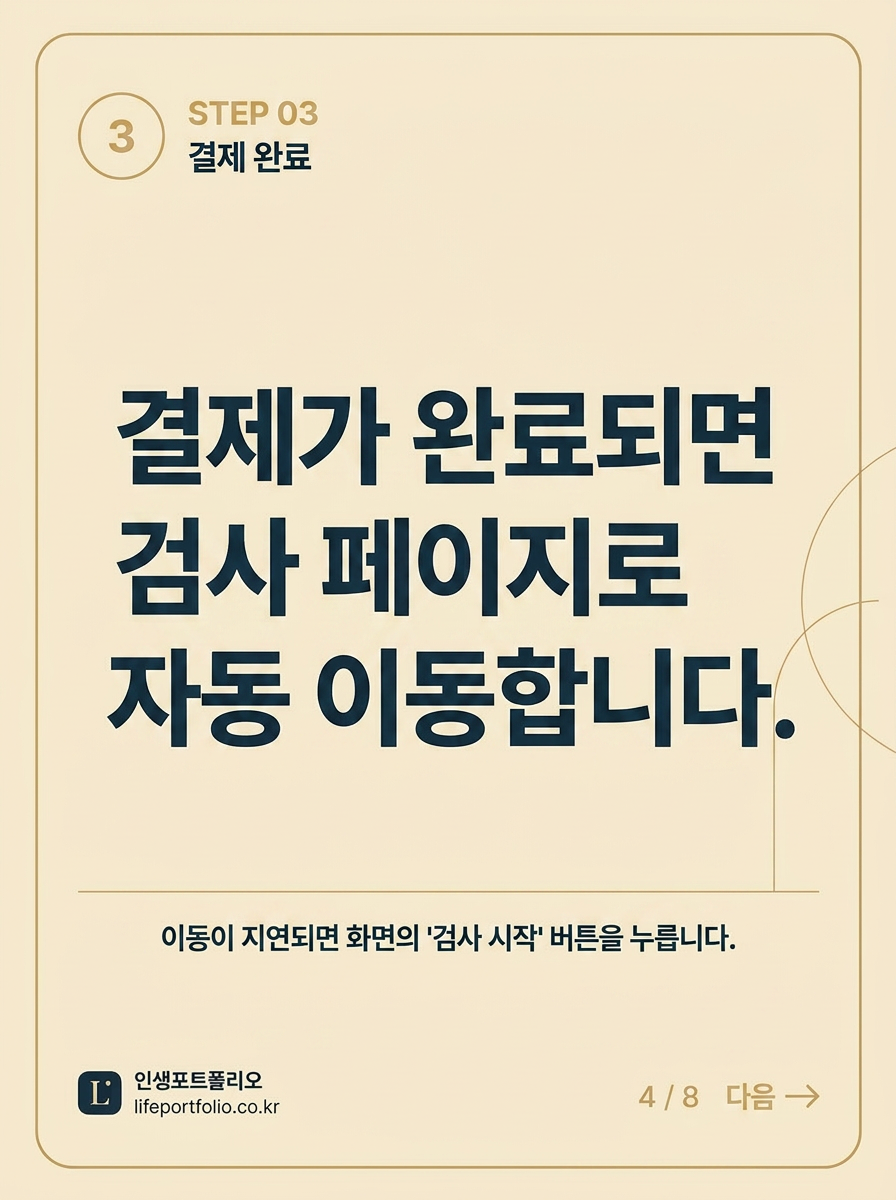
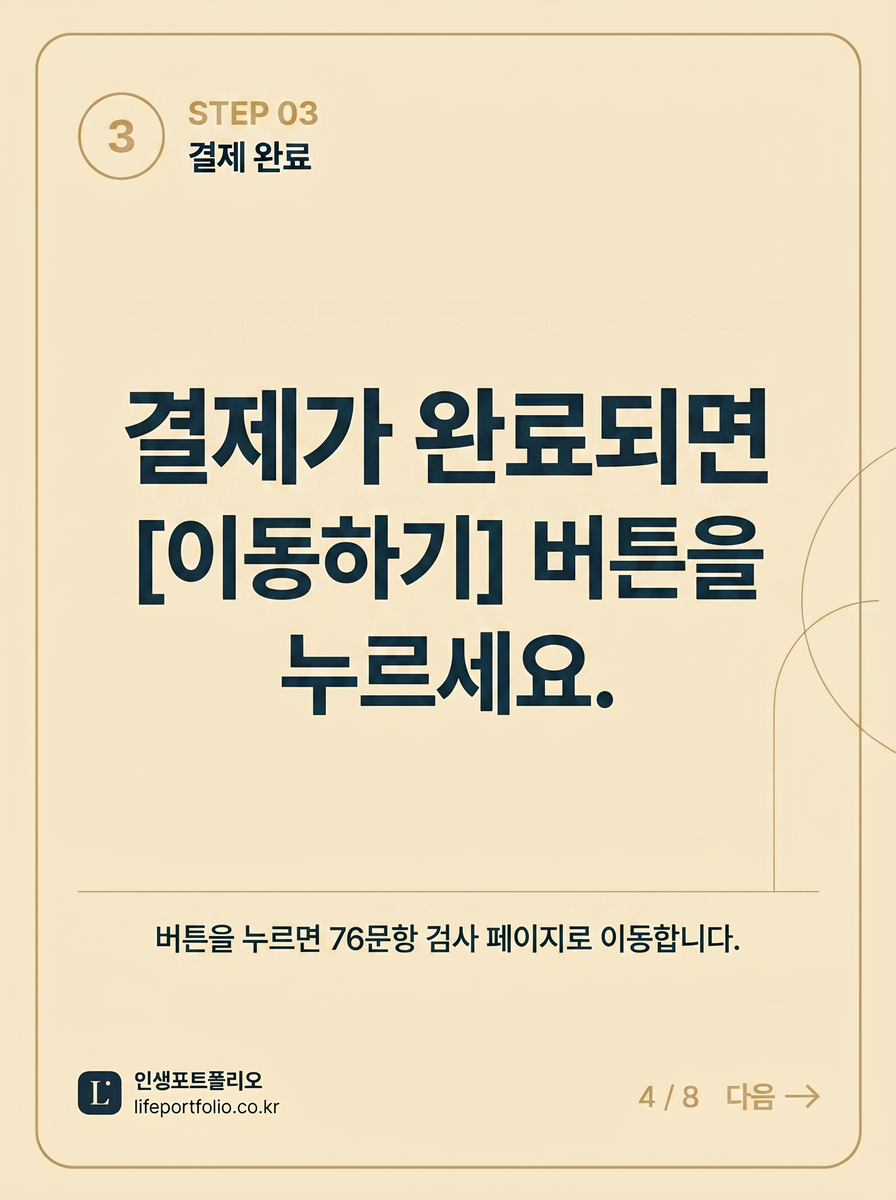
feat(journey+ops): 고객 여정 슬라이드 사실 정정 + 헬스체크 도입 (PR#188)
[배경]
PR#187 머지 후 운영자 추가 지시:
1) 고객 여정 이미지 전면 재검토 후 실제 사실 여정에 맞춰서 수정
2) 첫 이미지 하단의 '고객센터 안내문 ⓘ' 멘트 제거 (불필요)
3) 자동 헬스체크 도입으로 회귀 방지

[변경 내역]
■ assets/journey/slide-1.png (재생성)
  - 중앙 '고객센터 안내문 ⓘ' 텍스트 + 아이콘 + 구분선 제거
  - 원본 1792×2400 → 표준 896×1200 리사이즈 + PNG 최적화
  - understand_images 도구로 텍스트 정확성 재검증 완료

■ assets/journey/slide-4.png (재생성)
  - 운영자 Opus 4.8 목업 반영: '결제가 완료되면 / [이동하기] 버튼을 / 누르세요.'
  - 본문: '버튼을 누르면 76문항 검사 페이지로 이동합니다.'
  - 대괄호 [...] 가시성 확보, 3줄 레이아웃
  - 원본 1792×2400 → 표준 896×1200 리사이즈 + PNG 최적화

■ customer-journey.html
  - slide-1 alt 텍스트 업데이트 (고객센터 멘트 제거 반영)
  - slide-4 alt 텍스트 정제 ([이동하기] 명시)

■ downloads/lifeportfolio-journey-8slides.zip
  - 신규 slide-1, slide-4 포함하여 재빌드 (7.5MB)

■ tools/healthcheck-payment-flow.sh (신규)
  - 8개 섹션, 40+ 체크 항목
  - BASE_URL 환경변수 + CURL_TIMEOUT 기본 15s
  - PR#187 가드 마커 3회 검증, h1 br{display:none} 검증
  - stuck-rescue/pdfBtn/guideBtn/resumeBtn DOM ID 검증
  - 8장 슬라이드 PNG 가용성 검증
  - Exit 0 = PASS, 1 = FAIL — GitHub Actions Step Summary 친화적

[검증]
- nano-banana-pro 재생성 후 understand_images로 텍스트 정확성 확인
- 슬라이드 1, 4 모두 사실 여정과 일치
- 라이브(lifeportfolio.co.kr) 대상 healthcheck pre-validation: 40 PASS / 0 FAIL

[별도 처리 사항]
- .github/workflows/firebase-hosting-deploy.yml 자동 헬스체크 단계 추가는
  GitHub App workflows 권한 제한으로 본 커밋에서 제외
- 운영자 수동 적용 또는 별도 메커니즘 필요 (PR 본문에 상세 안내)

[원칙 준수]
- 어느 대기업이나 기술자보다 원활하게 작동
- 방해자 공격 방어 (사실 기반 안내로 오해/분쟁 차단)
- 슈퍼 개발자 + 인생포트폴리오 총괄 담당자 기준 체크리스트 적용

diff --git a/customer-journey.html b/customer-journey.html
@@ -301,8 +301,8 @@
   <section class="carousel" aria-roledescription="carousel" aria-label="이용 안내 슬라이드">
     <div class="stage">
       <div class="track" id="track">
-        <div class="slide" role="group" aria-roledescription="slide" aria-label="1 / 8 표지">
-          <img src="assets/journey/slide-1.png" alt="인생포트폴리오 이용 안내 — 결제부터 리포트까지 8단계" loading="eager">
+        <div class="slide" role="group" aria-roledescription="slide" aria-label="1 / 8 표지 인생포트폴리오 이용 안내">
+          <img src="assets/journey/slide-1.png" alt="LIFEPORTFOLIO USER GUIDE · 인생포트폴리오 이용 안내 — 결제부터 리포트까지 8단계" loading="eager">
         </div>
         <div class="slide" role="group" aria-roledescription="slide" aria-label="2 / 8 1단계 상품 페이지">
           <img src="assets/journey/slide-2.png" alt="STEP 01 상품 페이지에서 결제하기를 누릅니다" loading="lazy">
@@ -311,7 +311,7 @@
           <img src="assets/journey/slide-3.png" alt="STEP 02 9,900원 1회 결제. 카카오페이/카드/PayPal" loading="lazy">
         </div>
         <div class="slide" role="group" aria-roledescription="slide" aria-label="4 / 8 3단계 결제 완료 후 이동하기 버튼">
-          <img src="assets/journey/slide-4.png" alt="STEP 03 결제 완료 후 [이동하기] 버튼을 누르면 검사 페이지로 이동" loading="lazy">
+          <img src="assets/journey/slide-4.png" alt="STEP 03 결제가 완료되면 [이동하기] 버튼을 누르세요. 버튼을 누르면 76문항 검사 페이지로 이동합니다." loading="lazy">
         </div>
         <div class="slide" role="group" aria-roledescription="slide" aria-label="5 / 8 4단계 76문항 진단">
           <img src="assets/journey/slide-5.png" alt="STEP 04 76문항 약 15분의 진단" loading="lazy">